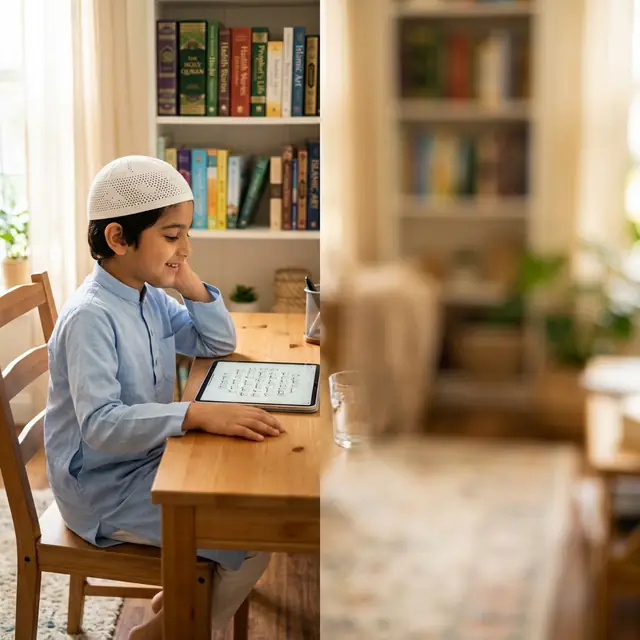
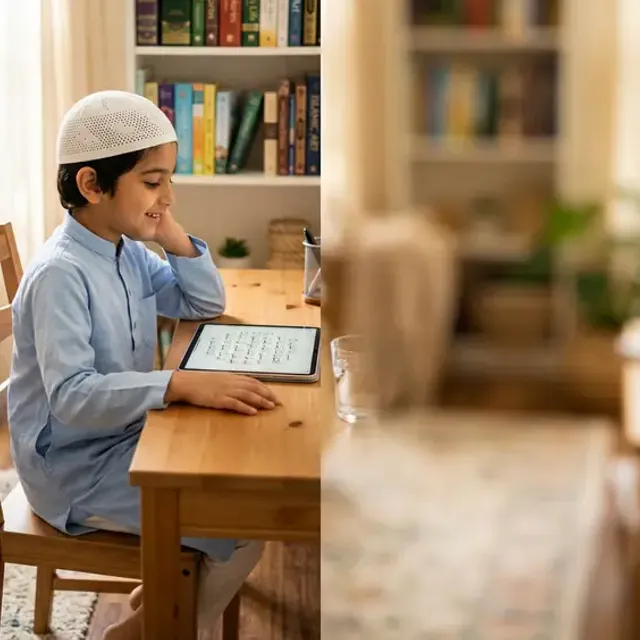
Permanently removed navy blue header from hero images using smart cropping

diff --git a/src/components/HeroCarousel.js b/src/components/HeroCarousel.js
@@ -177,7 +177,7 @@ export default function HeroCarousel({ setShowPopup, navigateTo }) {
                                         width: '100%',
                                         height: '100%',
                                         objectFit: 'cover',
-                                        objectPosition: 'center bottom',
+                                        objectPosition: 'center center',
                                         opacity: imagesLoaded[idx] ? 1 : 0,
                                         transition: 'opacity 0.6s ease',
                                     }}
